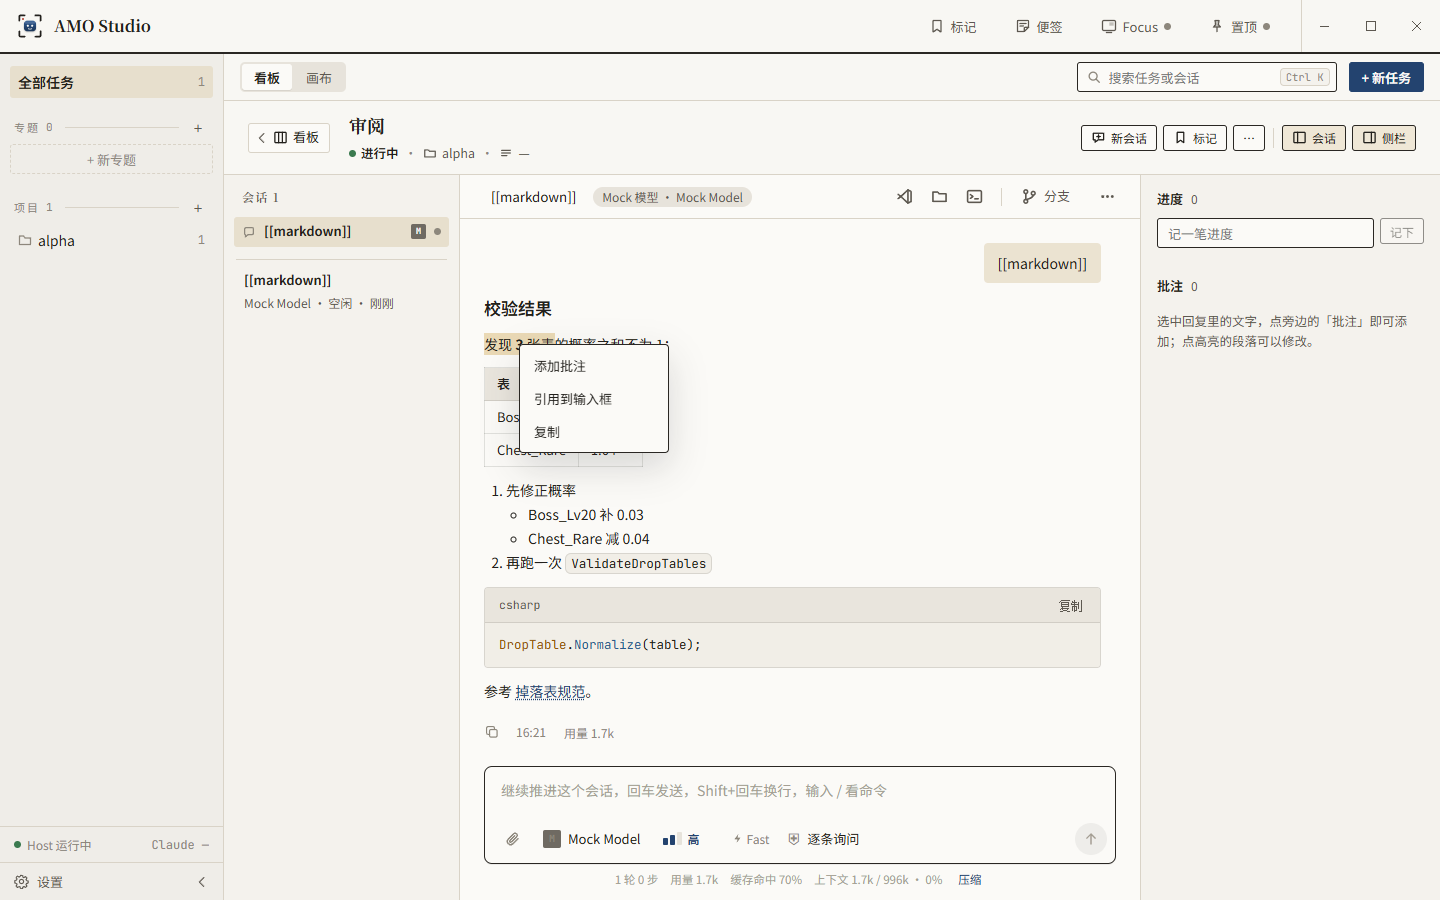
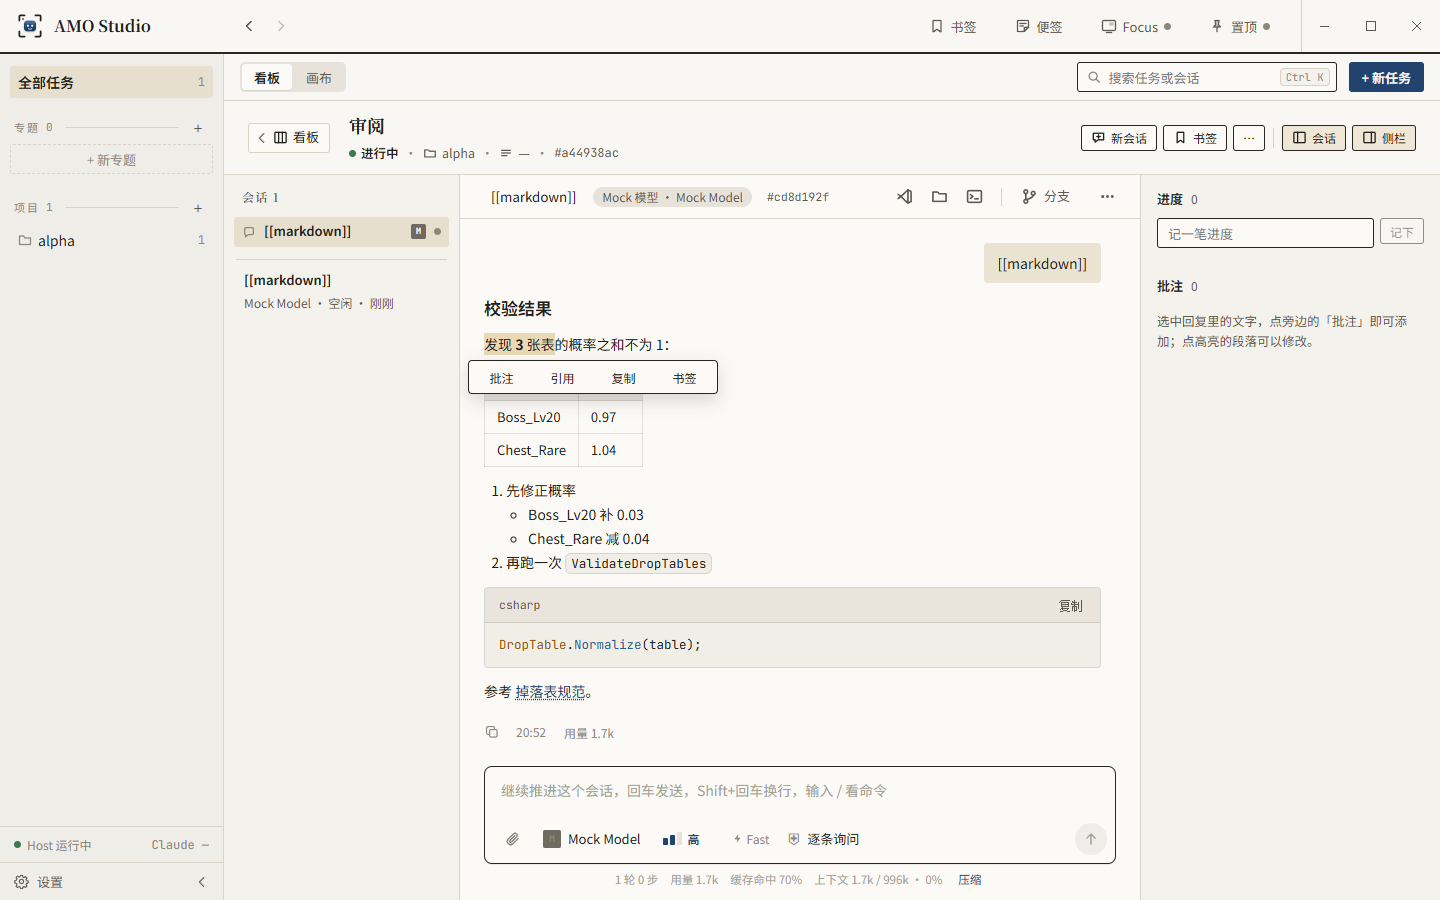
fix(studio): 打开对话 stays at the bookmarked passage; selection bar gains 复制, right-click menu goes
Jumping to a passage (or an annotation) scrolled the conversation there, but it
went on following its end until its scroll event a frame later; content growing
in between (a turn unfolding, code highlighted) took it back to the bottom, so a
passage far up a long conversation flashed off screen. scrollToBox now tells the
conversation to stay at once.

The bar that comes up with a selection gains 复制 (it says 已复制 a moment); the
right-click menu on a selection (添加批注 / 引用到输入框 / 复制) is gone.

diff --git a/studio/packages/ui/src/task/Thread.tsx b/studio/packages/ui/src/task/Thread.tsx
@@ -26,7 +26,7 @@ import { WakeBar } from "../chat/WakeBar.js";
 import { ContextHint } from "../chat/ContextHint.js";
 import { QuestionSeatContext } from "../chat/questions/QuestionRecord.js";
 import { AnnotationBubble, contentRect, SelectionBar, type BubbleTarget, type ContentRect } from "../review/AnnotationBubble.js";
-import { annotationAt, annotationRect, flashAnnotation, highlightsSupported, useAnnotationHighlights } from "../review/highlights.js";
+import { annotationAt, annotationRect, flashAnnotation, highlightsSupported, READ_HERE_EVENT, useAnnotationHighlights } from "../review/highlights.js";
 import type { AnnotationRefs } from "../review/annotationRefs.js";
 import { pendingQuestion } from "../chat/questions/flow.js";
 import { SlashMenu, useSlashCommands } from "../chat/cli/SlashMenu.js";
@@ -36,7 +36,7 @@ import { openReview } from "../gitreview/open.js";
 import { useMarkSessionSeen } from "../lib/sessionSeen.js";
 import { TurnStartHint, useTurnStartHint } from "./TurnStartHint.js";
 import { useAnnotationMarks } from "./annotationMarks.js";
-import { AnnotationRefChips, ComposerStats, composerPlaceholder, SelectionMenu } from "./ThreadParts.js";
+import { AnnotationRefChips, ComposerStats, composerPlaceholder } from "./ThreadParts.js";
 
 /** Studio's /compact, as the 压缩 button runs it. */
 const COMPACT: SlashCommand = { name: "compact", description: "", group: "studio" };
@@ -78,7 +78,6 @@ interface ThreadProps {
   decisions?: readonly DecisionRequest[];
 }
 
-type Menu = { x: number; y: number; anchor: SelectionAnchor } | null;
 
 /** Conversation of one session plus its composer. */
 export function Thread({ link, presets, session, profile, tasks = [], sessions = [], items, annotations, annotationRefs, model, busy, onApprove, onJump, onSend, onInterrupt, onSaveAnnotation, onEditAnnotation, onDeleteAnnotation, onBookmark, initialScroll, onError, decisions = [] }: ThreadProps) {
@@ -98,7 +97,6 @@ export function Thread({ link, presets, session, profile, tasks = [], sessions =
       }),
     [sessionId],
   );
-  const [menu, setMenu] = useState<Menu>(null);
   const view = useTranscriptView();
   const attach = useAttachments(link);
   // 找文件: the selector, opened with Ctrl+P or from the @ list (with what was typed after @).
@@ -167,20 +165,6 @@ export function Thread({ link, presets, session, profile, tasks = [], sessions =
   };
   const inBubble = (t: EventTarget | null) => t instanceof Element && !!t.closest(".anno-bubble, .sel-bar");
 
-  // The selection menu closes on Escape, on any click outside it, and when the thread scrolls.
-  useEffect(() => {
-    if (!menu) return;
-    const close = () => setMenu(null);
-    const onKey = (e: KeyboardEvent) => e.key === "Escape" && close();
-    const onDown = (e: MouseEvent) => !(e.target as Element | null)?.closest?.(".ctx-menu") && close();
-    window.addEventListener("keydown", onKey);
-    window.addEventListener("mousedown", onDown);
-    return () => {
-      window.removeEventListener("keydown", onKey);
-      window.removeEventListener("mousedown", onDown);
-    };
-  }, [menu]);
-
   const sources = new Map(items.filter((i) => i.type === "agent").map((i) => [i.id, (i as { markdown: string }).markdown]));
   // Painted: the unsent ones, and sent ones the next message refers to again; each gets its 批注N mark.
   const shownAnnotations = annotations.filter((a) => !a.sentAt || annotationRefs?.has(a.id));
@@ -208,6 +192,17 @@ export function Thread({ link, presets, session, profile, tasks = [], sessions =
     setAtBottom(el.scrollHeight - el.scrollTop - el.clientHeight < 40);
     if (el.scrollHeight - el.clientHeight >= restoreTo.current - 2) restoreTo.current = undefined;
   }, [items]);
+  // Scrolled to a passage or an annotation (scrollToBox): stop following the end at once.
+  useEffect(() => {
+    const el = scroller.current;
+    if (!el) return;
+    const stay = () => {
+      stick.current = false;
+      setAtBottom(el.scrollHeight - el.scrollTop - el.clientHeight < 40);
+    };
+    el.addEventListener(READ_HERE_EVENT, stay);
+    return () => el.removeEventListener(READ_HERE_EVENT, stay);
+  }, [session?.id]);
   useEffect(() => {
     const el = scroller.current?.firstElementChild;
     if (!el) return;
@@ -367,15 +362,6 @@ export function Thread({ link, presets, session, profile, tasks = [], sessions =
             stick.current = bottom;
             setAtBottom(bottom);
             if (session) navHistory.noteScroll(session.id, el.scrollTop);
-            if (menu) setMenu(null);
-          }}
-          onContextMenu={(e) => {
-            if (inBubble(e.target)) return;
-            const anchor = readSelection(sources);
-            if (!anchor) return setMenu(null);
-            e.preventDefault();
-            setBar(null);
-            setMenu({ x: e.clientX, y: e.clientY, anchor });
           }}
           onMouseDown={(e) => {
             if (!inBubble(e.target)) setBar(null);
@@ -448,6 +434,7 @@ export function Thread({ link, presets, session, profile, tasks = [], sessions =
                 quoteToDraft(bar.anchor.quote);
                 setBar(null);
               }}
+              onCopy={() => void copyText(bar.anchor.quote)}
               {...(onBookmark
                 ? {
                     onBookmark: () => {
@@ -504,25 +491,6 @@ export function Thread({ link, presets, session, profile, tasks = [], sessions =
           </div>
         )}
       </div>
-      {menu && (
-        <SelectionMenu
-          at={menu}
-          canQuote={!!session && session.writer !== "archived" && session.writer !== "terminal-handoff"}
-          onAnnotate={() => {
-            const at = selectionRect() ?? (scroller.current ? contentRect(scroller.current, new DOMRect(menu.x, menu.y, 1, 1)) : null);
-            if (at) setBubble({ kind: "new", anchor: menu.anchor, at });
-            setMenu(null);
-          }}
-          onQuote={() => {
-            quoteToDraft(menu.anchor.quote);
-            setMenu(null);
-          }}
-          onCopy={() => {
-            void copyText(menu.anchor.quote);
-            setMenu(null);
-          }}
-        />
-      )}
       {session && (
         <div className="composer-dock" {...dropTarget}>
           {planReview && !readOnly && (

diff --git a/studio/e2e/tests/context-menu.spec.ts b/studio/e2e/tests/context-menu.spec.ts
@@ -1,6 +1,6 @@
 import { expect, test } from "@playwright/test";
 import type { Annotation, Session, Task, Workspace } from "@amo-studio/protocol";
-import { selectAndRightClick } from "./selection.js";
+import { selectAndRelease, selectAndRightClick } from "./selection.js";
 import { launchStudio, screenshot, type Studio } from "./studio.js";
 
 let studio: Studio | undefined;
@@ -23,18 +23,20 @@ async function openMarkdownReply(s: Studio) {
   return { reply, session: created.session };
 }
 
-test("selection menu: annotate, quote into the composer, copy", async () => {
+// 2026-10-19: what was the right-click menu on selected text (添加批注 / 引用到输入框 / 复制) is the bar that comes up
+// with the selection — 批注 / 引用 / 复制 / 书签; a right-click on a selection opens nothing.
+test("selection bar: annotate, quote into the composer, copy; no right-click menu", async () => {
   studio = await launchStudio();
   const { page } = studio;
   const { reply, session } = await openMarkdownReply(studio);
-  const menu = page.getByRole("menu", { name: "选中文字" });
+  const bar = page.getByTestId("selection-bar");
 
-  // 添加批注: the bubble by the selection shows the quote; saving stores it with its source range and context.
-  await selectAndRightClick(page, reply, "发现 3 张表");
-  await expect(menu).toBeVisible();
+  // 批注: the bubble by the selection shows the quote; saving stores it with its source range and context.
+  await selectAndRelease(reply, "发现 3 张表");
+  await expect(bar.getByRole("button")).toHaveText(["批注", "引用", "复制", "书签"]);
   await screenshot(studio.app, "stage-2", "S2-03-context-menu", page);
-  await menu.getByRole("menuitem", { name: "添加批注" }).click();
-  await expect(menu).toHaveCount(0);
+  await bar.getByRole("button", { name: "批注" }).click();
+  await expect(bar).toHaveCount(0);
   const draft = page.getByTestId("annotation-bubble");
   await expect(draft).toContainText("发现 3 张表");
   await draft.getByLabel("批注内容").fill("这里应该说明是哪三张");
@@ -45,22 +47,20 @@ test("selection menu: annotate, quote into the composer, copy", async () => {
   const item = (await studio.api<Array<{ id: string; type: string; markdown?: string }>>("GET", `/api/sessions/${session.id}/items`)).find((i) => i.id === saved!.itemId)!;
   expect(item.markdown!.slice(saved!.start, saved!.end)).toBe("发现 **3** 张表");
 
-  // 引用到输入框
-  await selectAndRightClick(page, reply, "先修正概率");
-  await menu.getByRole("menuitem", { name: "引用到输入框" }).click();
+  // 引用
+  await selectAndRelease(reply, "先修正概率");
+  await bar.getByRole("button", { name: "引用" }).click();
   await expect(page.getByLabel("输入消息")).toHaveValue("> 先修正概率\n\n");
 
-  // 复制
-  await selectAndRightClick(page, reply, "Boss_Lv20");
-  await menu.getByRole("menuitem", { name: "复制" }).click();
+  // 复制: the bar stays and says so a moment.
+  await selectAndRelease(reply, "Boss_Lv20");
+  await page.getByTestId("selection-copy").click();
   // Test mode records copies instead of overwriting the user's clipboard.
   await expect.poll(() => studio!.app.evaluate(() => (globalThis as { __amoCopied?: string[] }).__amoCopied?.at(-1))).toBe("Boss_Lv20");
+  await expect(page.getByTestId("selection-copy")).toHaveText("已复制");
+  await expect(page.getByTestId("selection-copy")).toHaveText("复制");
 
-  // Escape closes; selections outside a reply get no menu.
+  // A right-click on a selection: no menu of its own any more.
   await selectAndRightClick(page, reply, "校验结果");
-  await expect(menu).toBeVisible();
-  await page.keyboard.press("Escape");
-  await expect(menu).toHaveCount(0);
-  await selectAndRightClick(page, page.getByTestId("msg-user").first(), "markdown");
-  await expect(menu).toHaveCount(0);
+  await expect(page.getByRole("menu", { name: "选中文字" })).toHaveCount(0);
 });

diff --git a/studio/e2e/tests/bookmarks.spec.ts b/studio/e2e/tests/bookmarks.spec.ts
@@ -95,3 +95,47 @@ test("bookmarks a passage under the task's topic, drags it out as a quote, goes 
   await expect(side.getByTestId("mark-row")).toHaveCount(0);
   await expect(marks.getByTestId("marks-group").filter({ hasText: "未归专题" })).toContainText("发现 3 张表");
 });
+
+test("打开对话 on a passage far up a long conversation scrolls it into view and keeps it there (2026-10-19)", async () => {
+  studio = await launchStudio();
+  const { app, page } = studio;
+  const ws = await studio.api<Workspace>("POST", "/api/workspaces", { path: studio.workspace("alpha") });
+  const topic = await studio.api<Topic>("POST", "/api/topics", { title: "掉落" });
+  const created = await studio.api<{ task: Task; session: Session }>("POST", "/api/tasks", {
+    title: "很长的对话",
+    workspaceId: ws.id,
+    topicId: topic.id,
+    firstSession: { profileId: "codex-mock", text: "[[markdown]]" },
+  });
+  await page.getByTestId("task-card").first().click();
+  const first = page.getByTestId("msg-agent").first();
+  await expect(first.locator("table.md-table")).toBeVisible({ timeout: 30_000 });
+  await selectAndRelease(first, "发现 3 张表");
+  await page.getByTestId("selection-bookmark").click();
+  await expect(page.getByTestId("toast")).toContainText("已加到「掉落」的书签");
+  // Many more turns after it, each with code and a table, so the passage ends far above the end.
+  for (let i = 0; i < 8; i++) {
+    await studio.api("POST", `/api/sessions/${created.session.id}/messages`, { text: `[[markdown]] 第 ${i} 轮` });
+    await expect(page.getByTestId("msg-agent")).toHaveCount(i + 2, { timeout: 30_000 });
+  }
+  const thread = page.getByTestId("thread");
+  await expect.poll(() => thread.evaluate((el) => el.scrollHeight - el.clientHeight)).toBeGreaterThan(2000);
+
+  const marks = await openMarksWindow(app, page);
+  await page.getByRole("button", { name: /返回看板|看板/ }).first().click();
+  await expect(page.getByTestId("task-card").first()).toBeVisible();
+  await marks.locator('[data-testid="mark-row"][data-kind="chat"]').getByTestId("mark-open-passage").click();
+  await expect(page.getByTestId("task-title")).toHaveText("很长的对话");
+  await expect.poll(() => painted(page, "amo-annotation-flash"), { timeout: 5_000 }).toEqual(["发现 3 张表"]);
+  // On screen, and still there once everything has settled (code highlighting, folded turns).
+  const passage = page.getByTestId("msg-agent").first().getByText("发现 3 张表");
+  const onScreen = async () => {
+    const view = (await thread.boundingBox())!;
+    const box = await passage.boundingBox();
+    if (!box) return "not rendered";
+    return box.y >= view.y && box.y + box.height <= view.y + view.height ? "visible" : `off by ${Math.round(box.y - view.y)}px`;
+  };
+  await expect.poll(onScreen, { timeout: 3_000 }).toBe("visible");
+  await page.waitForTimeout(1500);
+  expect(await onScreen()).toBe("visible");
+});

diff --git a/studio/packages/ui/src/review/AnnotationBubble.tsx b/studio/packages/ui/src/review/AnnotationBubble.tsx
@@ -44,6 +44,7 @@ export function SelectionBar({
   canQuote,
   onAnnotate,
   onQuote,
+  onCopy,
   onBookmark,
 }: {
   scroller: RefObject<HTMLElement | null>;
@@ -51,10 +52,18 @@ export function SelectionBar({
   canQuote: boolean;
   onAnnotate(): void;
   onQuote(): void;
+  /** 复制 (2026-10-19, in place of the right-click menu): the bar stays, saying 已复制 a moment. */
+  onCopy?(): void;
   /** 书签 (2026-10-19): keeps the passage under the session's topic. */
   onBookmark?(): void;
 }) {
-  const { style, ref } = usePlacement(scroller, at, onBookmark ? 186 : 132);
+  const [copied, setCopied] = useState(false);
+  useEffect(() => {
+    if (!copied) return;
+    const t = setTimeout(() => setCopied(false), 1200);
+    return () => clearTimeout(t);
+  }, [copied]);
+  const { style, ref } = usePlacement(scroller, at, 132 + (onBookmark ? 54 : 0) + (onCopy ? 64 : 0));
   return (
     <div ref={ref} className="sel-bar" style={style} role="toolbar" aria-label="选中的文字" data-testid="selection-bar" onMouseDown={(e) => e.preventDefault()}>
       <button type="button" onClick={onAnnotate}>
@@ -63,6 +72,19 @@ export function SelectionBar({
       <button type="button" disabled={!canQuote} onClick={onQuote}>
         引用
       </button>
+      {onCopy && (
+        <button
+          type="button"
+          onClick={() => {
+            onCopy();
+            setCopied(true);
+          }}
+          title="复制选中的文字"
+          data-testid="selection-copy"
+        >
+          {copied ? "已复制" : "复制"}
+        </button>
+      )}
       {onBookmark && (
         <button type="button" onClick={onBookmark} title="加到这个专题的书签" data-testid="selection-bookmark">
           书签

diff --git a/studio/packages/ui/src/task/ThreadParts.tsx b/studio/packages/ui/src/task/ThreadParts.tsx
@@ -24,23 +24,6 @@ export function composerPlaceholder(s: { readOnly: boolean; claudeSub: boolean; 
           : "继续推进这个会话，回车发送，Shift+回车换行，输入 / 看命令";
 }
 
-/** The right-click menu on selected text in a reply. */
-export function SelectionMenu({ at, canQuote, onAnnotate, onQuote, onCopy }: { at: { x: number; y: number }; canQuote: boolean; onAnnotate(): void; onQuote(): void; onCopy(): void }) {
-  return (
-    <div className="ctx-menu" role="menu" aria-label="选中文字" style={{ left: at.x, top: at.y }}>
-      <button type="button" role="menuitem" onClick={onAnnotate}>
-        添加批注
-      </button>
-      <button type="button" role="menuitem" disabled={!canQuote} onClick={onQuote}>
-        引用到输入框
-      </button>
-      <button type="button" role="menuitem" onClick={onCopy}>
-        复制
-      </button>
-    </div>
-  );
-}
-
 /** The 批注N tags of the annotations the next message refers to. */
 export function AnnotationRefChips({ refs, annotations }: { refs: AnnotationRefs; annotations: readonly Annotation[] }) {
   return (

diff --git a/studio/packages/ui/src/review/highlights.ts b/studio/packages/ui/src/review/highlights.ts
@@ -166,7 +166,13 @@ export function scrollToBox(from: Element, box: DOMRect): void {
   const view = scroller.getBoundingClientRect();
   const want = box.height < view.height - 48 ? view.top + (view.height - box.height) / 2 : view.top + 24;
   scroller.scrollTop += box.top - want;
+  // The conversation stops following its end now, not at its scroll event a frame later: content growing in between
+  // (a turn unfolding, code highlighted) would take it back to the end (2026-10-19: 书签 → 打开对话 landed there).
+  scroller.dispatchEvent(new Event(READ_HERE_EVENT));
 }
+
+/** On a scroller that was just scrolled to something to read (a passage, an annotation): stay here. */
+export const READ_HERE_EVENT = "amo:read-here";
 
 function scrollParent(el: Element): HTMLElement | null {
   for (let p = el.parentElement; p; p = p.parentElement) {
